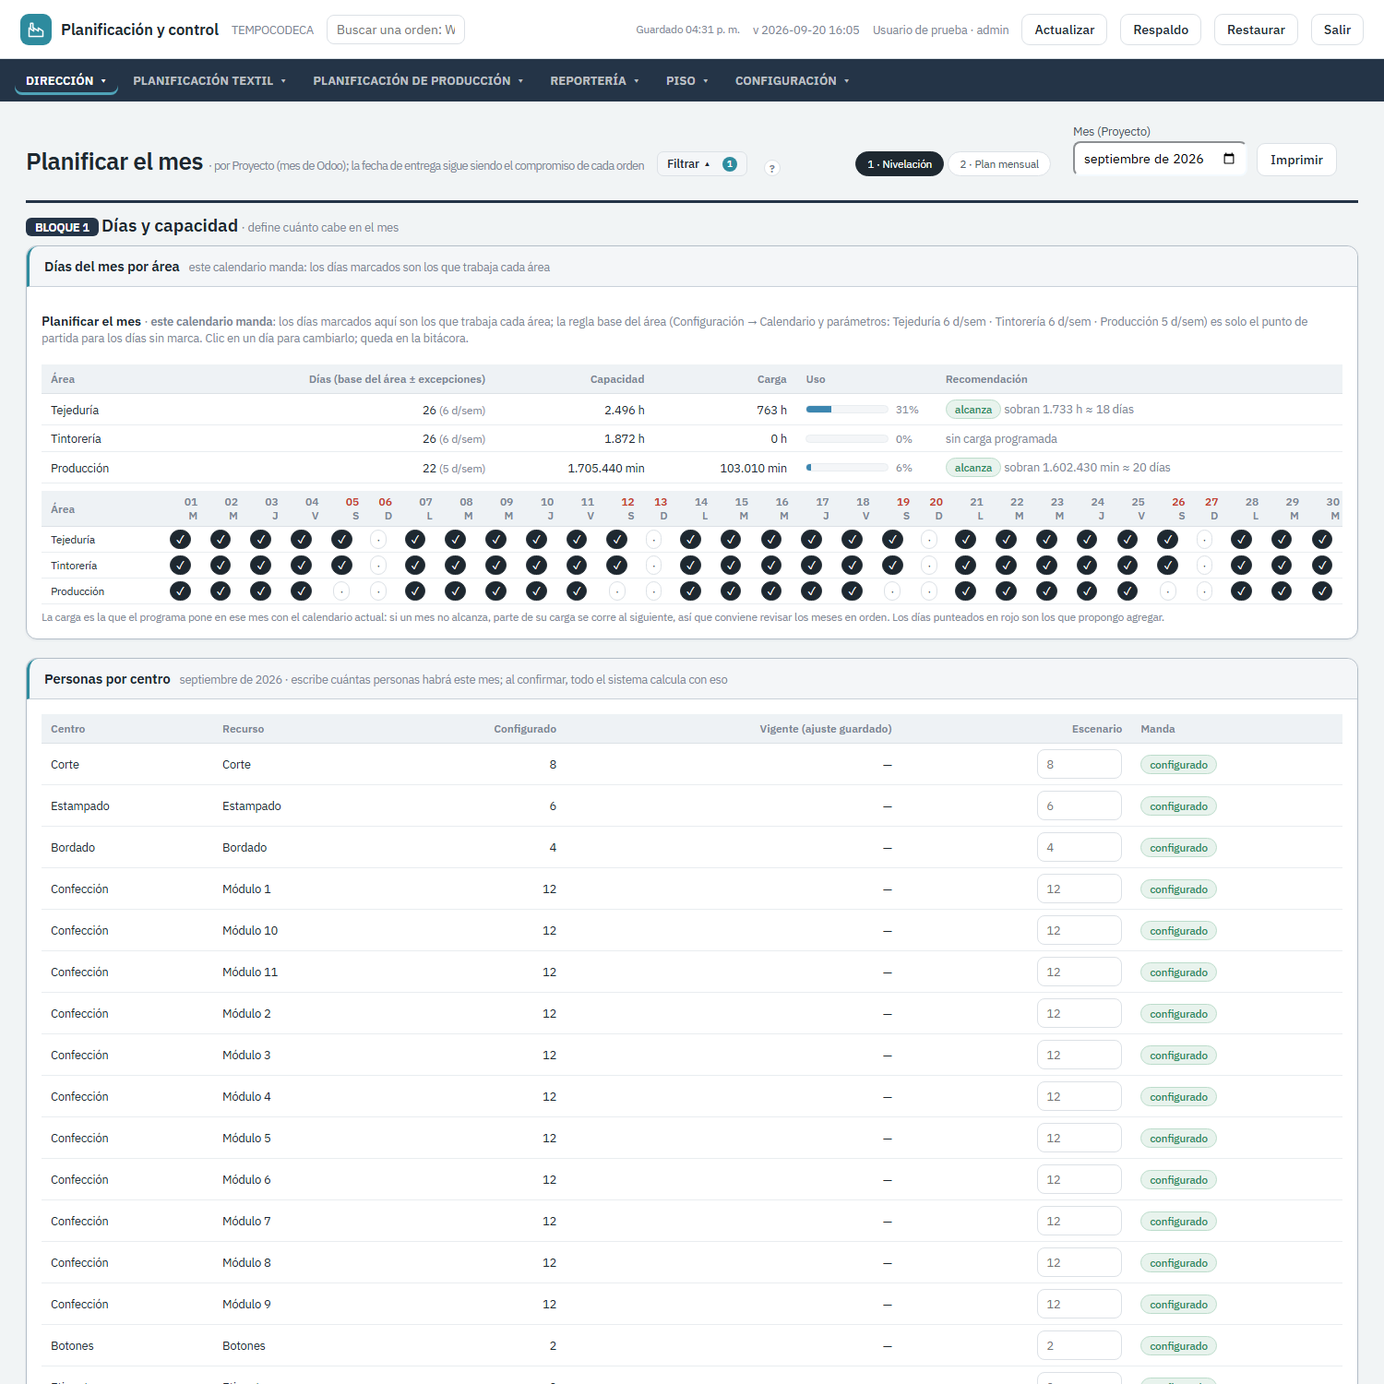
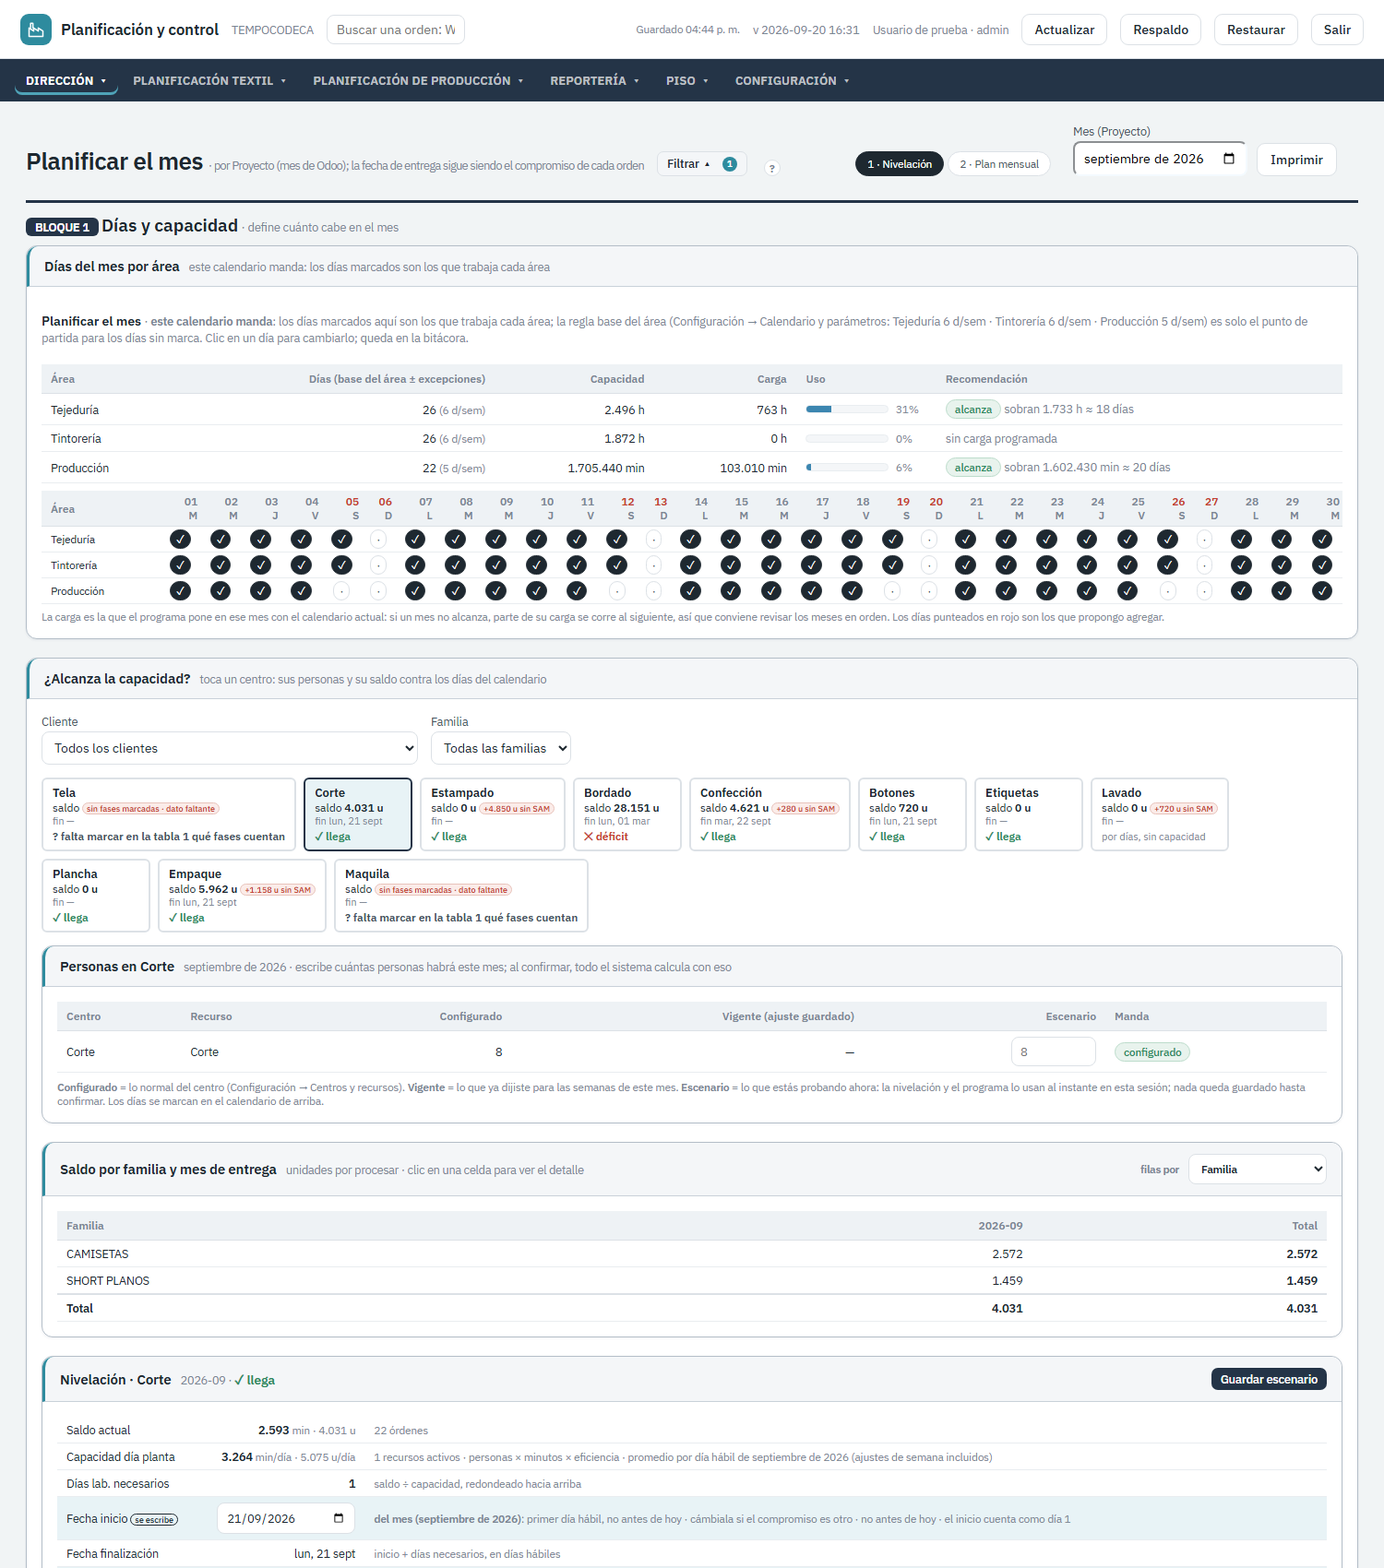
Planificar el mes · paso 1: primero los recuadros por área y, al tocar uno, solo sus personas (Corte → Corte; Confección → sus módulos), luego su tabla y su cuadrito. «? dato faltante» ahora dice qué falta (fases de la tabla 1, fecha compromiso, recursos…) y el horizonte natural es el mes elegido (i

diff --git a/index.html b/index.html
@@ -780,7 +780,7 @@ async function _save(){
 }
 
 /* ---------- versión cargada vs publicada: nunca mirar números de una copia vieja sin saberlo ---------- */
-const APP_BUILD='2026-09-20 16:31';
+const APP_BUILD='2026-09-20 16:48';
 function verBotonesAdmin(){const ok=puede('config');['btn-respaldo','btn-restaurar'].forEach(id=>{const b=document.getElementById(id);if(b)b.style.display=ok?'':'none'})}
 function verVersion(){const e=document.getElementById('version');if(e)e.textContent='v '+APP_BUILD}
 async function revisarVersion(){try{const r=await fetch(location.pathname+'?nocache='+Date.now(),{cache:'no-store'});if(!r.ok)return;const t=await r.text();const m=t.match(/APP_BUILD=\x27([^\x27]+)\x27/);if(!m)return;
@@ -2793,14 +2793,14 @@ function ajustesCapPanelHTML(ym){const ex=extrasDe(ym);if(!ex.length)return '';c
    Configuración no se toca y la pantalla dice cuál de las tres manda: configurado · vigente (ajuste guardado) · escenario (borrador). ---------- */
 function nivPersSet(ym,rid,v){if(!puede('programa')){alert('Tu perfil no ajusta capacidad.');return}if(!(SIM.on&&SIM.ym===ym))SIM={on:true,ym,rec:SIM.rec,cambios:{},motivo:''};
   semanasMes(ym).forEach(w=>simSet(w.ini,rid,'pers',v));PLAN=null;PLAN_ALL=null;CAPM=null;render()}
-function personasNivHTML(ym){const okP=puede('programa');const sem=semanasMes(ym);const on=SIM.on&&SIM.ym===ym;const aj=((S.params.ajustesCap||{})[ym]||{}).semanas||{};
-  const recs=S.recursos.filter(r=>r.activa&&r.id!=='maquila'&&CE(r.centro)&&CE(r.centro).area==='pro'&&!centroPorDias(r.centro)).sort((a,b)=>ordenPaso(a.centro)-ordenPaso(b.centro)||String(a.n).localeCompare(String(b.n)));
+function personasNivHTML(ym,areaId){const okP=puede('programa');const sem=semanasMes(ym);const on=SIM.on&&SIM.ym===ym;const aj=((S.params.ajustesCap||{})[ym]||{}).semanas||{};
+  const recs=S.recursos.filter(r=>r.activa&&r.id!=='maquila'&&CE(r.centro)&&CE(r.centro).area==='pro'&&!centroPorDias(r.centro)&&(!areaId||r.centro===areaId)).sort((a,b)=>ordenPaso(a.centro)-ordenPaso(b.centro)||String(a.n).localeCompare(String(b.n)));
   if(!recs.length)return '';
   const fila=r=>{const vig=sem.map(w=>{const x=aj[w.ini]&&aj[w.ini][r.id];return x&&x.pers!=null?+x.pers:null});const simV=sem.map(w=>{const x=SIM.cambios[w.ini]&&SIM.cambios[w.ini][r.id];return on&&x&&x.pers!=null?+x.pers:null});
     const vigTxt=vig.every(v=>v==null)?'—':(new Set(vig.map(v=>v==null?(r.pers||0):v)).size===1?num(vig.find(v=>v!=null)):vig.map((v,i)=>'sem. '+(i+1)+': '+num(v==null?(r.pers||0):v)).join(' · '));
     const escVal=simV.every(v=>v!=null)&&new Set(simV).size===1?simV[0]:'';const manda=escVal!==''?'escenario':(vig.some(v=>v!=null)?'vigente':'configurado');
     return `<tr><td>${esc(nCen(r.centro))}</td><td>${esc(r.n)}</td><td class="num" title="Configuración → Centros y recursos">${num(r.pers||0)}</td><td class="num" title="ajuste de la semana guardado (Plan / Nivelación)">${vigTxt}</td><td class="num">${okP?`<input type="number" min="0" step="1" style="width:80px" value="${escVal===''?'':num(escVal)}" placeholder="${num(vig.some(v=>v!=null)?(vig.find(v=>v!=null)):(r.pers||0))}" onchange="nivPersSet('${ym}','${r.id}',this.value)">`:'—'}</td><td><span class="tag ${manda==='escenario'?'t-aviso':manda==='vigente'?'t-medio':'t-ok'}">${manda}</span></td></tr>`};
-  return `<div class="panel"><h3>Personas por centro <span class="note">${esc(fmtMesEG(ym))} · escribe cuántas personas habrá este mes; al confirmar, todo el sistema calcula con eso</span></h3><div class="body">
+  return `<div class="panel"><h3>Personas en ${esc(areaId?nCen(areaId):'los centros')} <span class="note">${esc(fmtMesEG(ym))} · escribe cuántas personas habrá este mes; al confirmar, todo el sistema calcula con eso</span></h3><div class="body">
    <table><thead><tr><th>Centro</th><th>Recurso</th><th class="num">Configurado</th><th class="num">Vigente (ajuste guardado)</th><th class="num">Escenario</th><th>Manda</th></tr></thead><tbody>${recs.map(fila).join('')}</tbody></table>
    <p class="mut" style="font-size:var(--fs-xs);margin:8px 0 0"><b>Configurado</b> = lo normal del centro (Configuración → Centros y recursos). <b>Vigente</b> = lo que ya dijiste para las semanas de este mes. <b>Escenario</b> = lo que estás probando ahora: la nivelación y el programa lo usan al instante en esta sesión; nada queda guardado hasta confirmar. Los días se marcan en el calendario de arriba.</p>
    ${on?`<div class="row" style="margin-top:10px;align-items:flex-end"><div style="flex:1"><label>Motivo (obligatorio para confirmar)</label><input type="text" id="sim-motivo" value="${esc(SIM.motivo||'')}" oninput="SIM.motivo=this.value" placeholder="p. ej. entran 3 personas a corte desde el 6 de octubre"></div><div><button class="btn" onclick="guardarAjustesCap('${ym}')">Confirmar escenario</button> <button class="btn ghost" onclick="toggleSim('${ym}')">Descartar</button></div></div><div class="warn" style="margin-top:8px;font-size:var(--fs-s)">Escenario abierto: lo que ves abajo (capacidad, ¿alcanza?, programa) ya lo incluye. <b>Confirmar</b> lo graba como el ajuste de cada semana de ${esc(fmtMesEG(ym))} con tu motivo; <b>Descartar</b> vuelve a lo vigente.</div>`:''}
@@ -3441,8 +3441,7 @@ function vPlan(el){
   if(!(NIVUI.meses&&NIVUI.meses.length===1&&NIVUI.meses[0]===ym))NIVUI.meses=[ym];   /* la nivelación del paso 1 mira el mes del plan */
   const bloque1=planBloqueDiv('1','Días y capacidad','define cuánto cabe en el mes')
    +`<div class="panel"><h3>Días del mes por área <span class="note">este calendario manda: los días marcados son los que trabaja cada área</span></h3><div class="body"><div id="plan-cal">${(()=>{const g=MESPLAN;MESPLAN=ym;const html=planMesHTML();MESPLAN=g;return html})()}</div></div></div>
-   ${personasNivHTML(ym)}
-   <div class="panel"><h3>¿Alcanza la capacidad? <span class="note">saldo por procesar contra los días y las personas de arriba · por área</span></h3><div class="body">${nivelacionCuerpoHTML(false)}</div></div>
+   <div class="panel"><h3>¿Alcanza la capacidad? <span class="note">toca un centro: sus personas y su saldo contra los días del calendario</span></h3><div class="body">${nivelacionCuerpoHTML(false)}</div></div>
    <details class="panel" style="padding:0"><summary style="cursor:pointer;padding:12px 16px;font-weight:600">Más detalle <span class="note">capacidad por área y por módulo, simulador semana por semana, ajustes guardados, guía</span></summary><div class="body" style="padding:0 16px 12px">
    <div class="panel"><h3>Capacidad del mes por área <span class="note">personas, minutos, eficiencia y capacidad total resultante</span></h3><div class="body"><table><thead><tr><th>Área</th><th class="num">Días</th><th>Con qué se calcula</th><th class="num">Capacidad</th><th class="num">Programado</th><th style="width:140px">Uso</th><th></th></tr></thead><tbody>
     ${c.areas.map(a=>`<tr><td>${AREAS[a.a]}</td><td class="num">${fmtDiasMes(a.a,ym)}</td><td class="mut" style="font-size:var(--fs-xs)">${baseCapArea(a.a)}</td><td class="num">${num(a.cap)} ${a.u}</td><td class="num">${num(a.carga)} ${a.u}</td><td>${barra(a.carga,a.cap)}</td><td>${a.faltan?`<span class="tag t-alerta">faltan ${a.faltan} días</span> <a style="cursor:pointer;font-size:var(--fs-xs)" onclick="document.getElementById('plan-cal')&&document.getElementById('plan-cal').scrollIntoView({behavior:'smooth'})">planificar días ↑</a>`:'<span class="tag t-ok">alcanza</span>'}</td></tr>`).join('')}</tbody></table>
@@ -6540,8 +6539,14 @@ function nivUICapacidad(areaId){const a=nivUIArea(areaId);if(!a)return {cap:null
   const cap=recs.length?detalle.reduce((x,y)=>x+y.cap,0):null;const escOn=SIM.on&&meses.includes(SIM.ym);
   return {cap,unidad:'min/día',detalle,nota:recs.length?(recs.length+' recursos activos · personas × minutos × eficiencia · promedio por día hábil de '+(meses.length?meses.map(fmtMesEG).join(', '):'hoy')+(escOn?' · INCLUYE el escenario sin confirmar':'')+' (ajustes de semana incluidos)'):'sin recursos activos en el centro: dato faltante'}}
 /* --- lo que se escribe: inicio y compromiso (los del Paso 1), días adicionales y maquila (nuevos) --- */
-function nivUIEsc(areaId){const g=((S.params.nivelacion||{}).escenarios||{})[areaId]||{};const s=NIVUI.esc[areaId]||{};
-  return {inicio:s.inicio!==undefined?s.inicio:(nivFecha(areaId,'inicio')||''),compromiso:s.compromiso!==undefined?s.compromiso:(nivFecha(areaId,'compromiso')||''),
+/* fechas del horizonte cuando el área no tiene fechas propias: el mes (o meses) elegido, con los días hábiles del área */
+function nivUIFechasDelMes(areaId){const meses=nivUIMeses();if(!meses.length)return null;const a=nivUIArea(areaId);const recs=a&&a.tipo==='centro'?S.recursos.filter(r=>r.activa&&r.centro===a.id&&r.id!=='maquila'):[];const r0=recs[0]||null;
+  const lab=d=>r0?labR(d,r0):!!labR(d,{centro:'corte'});const dias=[];meses.slice().sort().forEach(ym=>{const [y,m]=ym.split('-').map(Number);if(!(y>0&&m>0))return;const nd=new Date(y,m,0).getDate();for(let k=1;k<=nd;k++)dias.push(ym+'-'+String(k).padStart(2,'0'))});
+  const habiles=dias.filter(lab);if(!habiles.length)return null;const h=hoy();const ini=habiles.find(d=>d>=h)||null;const fin=habiles[habiles.length-1];if(!ini||fin<ini)return null;return {inicio:ini,compromiso:fin,txt:'del mes ('+meses.map(fmtMesEG).join(', ')+')'}}
+function nivUIEsc(areaId){const g=((S.params.nivelacion||{}).escenarios||{})[areaId]||{};const s=NIVUI.esc[areaId]||{};const fm=nivUIFechasDelMes(areaId);
+  const iniG=nivFecha(areaId,'inicio')||'',comG=nivFecha(areaId,'compromiso')||'';
+  return {inicio:s.inicio!==undefined?s.inicio:(iniG||(fm?fm.inicio:'')),compromiso:s.compromiso!==undefined?s.compromiso:(comG||(fm?fm.compromiso:'')),
+    fechasDelMes:!!(fm&&s.inicio===undefined&&s.compromiso===undefined&&!iniG&&!comG),fechasTxt:fm?fm.txt:'',
     diasAdic:s.diasAdic!==undefined?s.diasAdic:(g.diasAdic!=null?g.diasAdic:0),maquilaU:s.maquilaU!==undefined?s.maquilaU:(g.maquilaU!=null?g.maquilaU:''),
     sinGuardar:Object.keys(s).length>0,guardado:g.ts?g:null}}
 function nivUISet(areaId,k,v){if(!puede('programa')){alert('Solo planificación puede escribir en «Nivelación».');return}
@@ -6589,7 +6594,12 @@ function nivUIGuardar(areaId){if(!puede('programa')){alert('Solo planificación 
   delete NIVUI.esc[areaId];NIVC=null;save();render()}
 /* ---------- presentación ---------- */
 const NIVUI_ESTADO={ok:{ico:'✓',txt:'llega',color:'var(--ok)'},riesgo:{ico:'⚠',txt:'riesgo',color:'var(--aviso)'},deficit:{ico:'✕',txt:'déficit',color:'var(--alerta)'},faltante:{ico:'?',txt:'dato faltante',color:'var(--ink2)'}};
-function nivUIEstadoHTML(est,chico){const e=NIVUI_ESTADO[est]||NIVUI_ESTADO.faltante;return `<span style="color:${e.color};font-weight:600;font-size:${chico?'12px':'14px'}">${e.ico} ${e.txt}</span>`}
+function nivUIEstadoHTML(est,chico,r){const e=NIVUI_ESTADO[est]||NIVUI_ESTADO.faltante;const txt=(est==='faltante'&&r)?nivUIQueFalta(r):e.txt;return `<span style="color:${e.color};font-weight:600;font-size:${chico?'12px':'14px'}" title="${esc(est==='faltante'&&r?'falta: '+nivUIQueFalta(r):e.txt)}">${e.ico} ${esc(txt)}</span>`}
+/* qué dato falta para decir si llega (en palabras de planta) */
+function nivUIQueFalta(r){if(!r)return 'dato faltante';const f=[];if(r.sinFasesTela||(r.area.porFase&&!fasesDeProcNivel(r.area.id).length))f.push('marcar en la tabla 1 qué fases cuentan');
+  if(r.saldo==null||(r.enMin?r.saldo.min==null:r.saldo.unid==null))f.push('saldo');if(r.cap&&r.cap.cap==null&&!r.area.porFase)f.push('recursos con personas, minutos y eficiencia en este centro');
+  if(!r.esc.inicio)f.push('fecha de inicio');if(!r.esc.compromiso)f.push('fecha compromiso');if(r.enMin&&r.sam==null&&r.saldo&&r.saldo.min==null)f.push('SAM');
+  return f.length?'falta '+f.join(' · '):'dato faltante'}
 function nivUIFechaTxt(f){return f?fmtDia(f):'<span class="tag t-alerta" style="font-size:10px;padding:0 4px">dato faltante</span>'}
 function nivUIValor(min,r,dec){if(min==null)return faltaTxt();if(!r.enMin)return '<b>'+num(min,0)+'</b> <span class="mut" style="font-size:var(--fs-xs)">u</span>';return minUni(min,r.sam,dec)}
 function nivUIMesesHTML(){const disp=nivUIMesesDisp();const sel=nivUIMeses();
@@ -6604,7 +6614,7 @@ function nivUIRecuadrosHTML(){const meses=nivUIMeses();
       <div style="font-weight:600;font-size:13px">${esc(a.n)}</div>
       <div style="font-size:12px">saldo <b>${saldo}</b></div>
       <div style="font-size:11px" class="mut">fin ${esc(fin)}</div>
-      <div>${a.porDias?'<span class="mut" style="font-size:11px" title="no consume capacidad: no se nivela por capacidad">por días, sin capacidad</span>':nivUIEstadoHTML(r?r.estado:'faltante',true)}</div></div>`}).join('')}</div>`}
+      <div>${a.porDias?'<span class="mut" style="font-size:11px" title="no consume capacidad: no se nivela por capacidad">por días, sin capacidad</span>':nivUIEstadoHTML(r?r.estado:'faltante',true,r)}</div></div>`}).join('')}</div>`}
 /* tabla FAMILIA × mes (unidades del saldo): para nivelar se mira el tipo de producto, no las órdenes una por una.
    Las filas se pueden agrupar por familia (por defecto), tipo de producto o cliente; el cálculo no cambia.
    Clic en una celda → debajo, ESA fila y ese mes: primero por tipo de producto con sus unidades, y ahí sí las
@@ -6648,7 +6658,7 @@ function nivUICuadritoHTML(r){if(!r)return '';const c=r.calc,e=r.esc,ok=puede('p
     ${ro('Saldo actual',nivUIValor(r.saldo?(r.enMin?r.saldo.min:r.saldo.unid):null,r),(r.saldo?num(r.saldo.ordenes.length,0)+' órdenes':'')+(r.saldo&&r.saldo.sinSAM.length?' · <span style="color:var(--alerta)">'+r.saldo.sinSAM.length+' sin SAM ('+num(r.saldo.unidSinSAM,0)+' u) no suman</span>':''))}
     ${ro('Capacidad día planta',capTxt,esc(r.cap.nota))}
     ${ro('Días lab. necesarios',c.diasNec==null?faltaTxt():'<b>'+num(c.diasNec,0)+'</b>','saldo ÷ capacidad, redondeado hacia arriba')}
-    ${wr('Fecha inicio',inp('inicio','date',e.inicio,'min="'+hoy()+'"'),'no antes de hoy · el inicio cuenta como día 1')}
+    ${wr('Fecha inicio',inp('inicio','date',e.inicio,'min="'+hoy()+'"'),(e.fechasDelMes?'<b>'+esc(e.fechasTxt)+'</b>: primer día hábil, no antes de hoy · cámbiala si el compromiso es otro · ':'')+'no antes de hoy · el inicio cuenta como día 1')}
     ${ro('Fecha finalización',nivUIFechaTxt(c.fin),c.fin?'inicio + días necesarios, en días hábiles':'')}
     ${wr('Fecha compromiso',inp('compromiso','date',e.compromiso),'último día disponible, incluido')}
     ${ro('Días disponibles',c.diasDisp==null?faltaTxt():'<b>'+num(c.diasDisp,0)+'</b>',c.txtDias?esc(c.txtDias):'días hábiles entre inicio y compromiso, con festivos cargados')}
@@ -6677,9 +6687,11 @@ function nivUICalculoHTML(r){const c=r.calc;const nh=c.noHabiles||[];
    <div><b>Producción planta:</b> ${c.capDia!=null&&r.diasTot!=null?num(c.capDia,0)+' × '+num(r.diasTot,1)+' = '+num(r.plantaMin,0)+(r.enMin?' min':' u'):'—'} · <b>Maquila:</b> ${r.maqMin!=null?num(r.maqU,0)+' u'+(r.enMin&&r.sam?' × '+num(r.sam,3)+' = '+num(r.maqMin,0)+' min':''):'—'} · <b>Déficit:</b> ${r.deficitMin!=null?num(r.saldo?(r.enMin?r.saldo.min:r.saldo.unid):0,0)+' − '+num(r.totalMin,0)+' = '+num(r.deficitMin,0):'—'}</div>
   </div>`}
 /* el cuerpo de la nivelación (recuadros por área, tabla, cuadrito); lo usan la página Nivelación y el paso 1 de Planificar el mes */
-function nivelacionCuerpoHTML(conMeses){const r=nivUICalcular(NIVUI.area)||nivUICalcular((nivUIAreas()[1]||{}).id);
+function nivelacionCuerpoHTML(conMeses){const r=nivUICalcular(NIVUI.area)||nivUICalcular((nivUIAreas()[1]||{}).id);const areaSel=r?r.area:null;
+  const personas=(areaSel&&areaSel.tipo==='centro'&&!areaSel.porDias)?nivUIMeses().slice().sort().map(ym=>personasNivHTML(ym,areaSel.id)).join(''):'';   /* solo el centro elegido en los recuadros */
   return `<div class="row" style="align-items:flex-end;gap:14px">${conMeses?nivUIMesesHTML():''}${nivUIFiltrosHTML()}</div>
    ${nivUIRecuadrosHTML()}
+   ${personas}
    ${r?nivUITablaHTML(r)+(nivUIConectada(r.area)?nivUICuadritoHTML(r):`<div class="panel"><div class="body warn" style="font-size:var(--fs-s)"><b>${esc(r.area.n)}: por días, sin capacidad.</b> Muestra saldo y órdenes, sin cuadrito ni fecha calculada. ${esc(r.cap.nota)}</div></div>`):'<div class="panel"><div class="empty">Sin áreas configuradas.</div></div>'}`}
 function vNivelacion(el){const ym=(nivUIMeses()[0]||hoy().slice(0,7));
   el.innerHTML=`<div class="pagehead"><h2>Nivelación</h2><span class="spacer"></span>

diff --git a/test/driver.js b/test/driver.js
@@ -6789,8 +6789,8 @@ async function __run(){try{LISTO=true;}catch(e){}try{__R.prevFuzz=localStorage._
      __check('EX: aplicarOT reporta las confirmadas que la OT no tocó (registro de cargas y Reporte OT)',/confNoTocadas/.test(String(aplicarOT))&&/confNoTocadas/.test(String(mReporteOT))&&/confNoTocadas/.test(String(resumenCargaTxt)));}
     delete S.params.palabrasExcedente;delete S.params.centroExcedente;}
    /* PN · Planificar el mes en dos pasos (usuaria, 20-sep): 1 Nivelación (días, personas por centro, ¿alcanza?) → 2 Plan mensual; el escenario confirmado manda en todo el sistema */
-   {PERFIL=adminP0();const ym=hoy().slice(0,7);PM.mes=ym;PM.paso=1;SIM={on:false,ym:null,rec:null,cambios:{},motivo:''};const bakAj=JSON.stringify(S.params.ajustesCap||null);page='plan';render();const pg=()=>document.getElementById('p-plan');let h=pg().innerHTML;
-    __check('PN: la pantalla se llama «Planificar el mes», tiene los dos pasos como chips y el paso 1 trae, en orden, el calendario de días, Personas por centro y ¿Alcanza la capacidad? (la nivelación); el paso 2 queda en el DOM pero oculto',/<h2>Planificar el mes/.test(h)&&/1 · Nivelación/.test(h)&&/2 · Plan mensual/.test(h)&&h.indexOf('id="plan-cal"')<h.indexOf('Personas por centro')&&h.indexOf('Personas por centro')<h.indexOf('¿Alcanza la capacidad?')&&/Saldo por/.test(h)&&pg().querySelector('#plan-paso1').style.display!=='none'&&pg().querySelector('#plan-paso2').style.display==='none'&&/Resumen del mes/.test(pg().querySelector('#plan-paso2').innerHTML)&&document.querySelector('nav a[data-p="plan"]').textContent.trim()==='Planificar el mes');
+   {PERFIL=adminP0();const ym=hoy().slice(0,7);PM.mes=ym;PM.paso=1;NIVUI.area='corte';NIVUI.esc={};SIM={on:false,ym:null,rec:null,cambios:{},motivo:''};const bakAj=JSON.stringify(S.params.ajustesCap||null);page='plan';render();const pg=()=>document.getElementById('p-plan');let h=pg().innerHTML;
+    __check('PN: la pantalla se llama «Planificar el mes», tiene los dos pasos como chips y el paso 1 trae, en orden, el calendario de días, ¿Alcanza la capacidad? con los recuadros por área y, debajo, las personas SOLO del centro elegido (Corte); el paso 2 queda en el DOM pero oculto',/<h2>Planificar el mes/.test(h)&&/1 · Nivelación/.test(h)&&/2 · Plan mensual/.test(h)&&h.indexOf('id="plan-cal"')<h.indexOf('¿Alcanza la capacidad?')&&h.indexOf('¿Alcanza la capacidad?')<h.indexOf('Personas en Corte')&&!/Personas en Confección/.test(h)&&h.indexOf("NIVUI.area='corte'")<h.indexOf('Personas en Corte')&&/Saldo por/.test(h)&&pg().querySelector('#plan-paso1').style.display!=='none'&&pg().querySelector('#plan-paso2').style.display==='none'&&/Resumen del mes/.test(pg().querySelector('#plan-paso2').innerHTML)&&document.querySelector('nav a[data-p="plan"]').textContent.trim()==='Planificar el mes');
     __check('PN: la nivelación del paso 1 mira el mes del plan',nivUIMeses().length===1&&nivUIMeses()[0]===ym||nivUIMesesDisp().indexOf(ym)<0,JSON.stringify({niv:nivUIMeses(),ym,disp:nivUIMesesDisp().slice(0,4)}));
     PM.paso=2;render();__check('PN: el paso 2 muestra el plan y esconde el paso 1',pg().querySelector('#plan-paso2').style.display!=='none'&&pg().querySelector('#plan-paso1').style.display==='none');PM.paso=1;render();
     /* personas: escenario → capacidad al instante; confirmar → ajuste de la semana → todo el sistema */

diff --git a/PLANIFICAR_EL_MES_DOS_PASOS.md b/PLANIFICAR_EL_MES_DOS_PASOS.md
@@ -30,6 +30,15 @@ días, personas y capacidad vienen del paso 1.
 **Planificación de producción → Nivelación** sigue existiendo (página `nivelacion`, `vNivelacion`): es la misma nivelación por
 meses, con el botón «Planificar el mes →» que abre el paso 1. No hay dos cálculos: `nivelacionCuerpoHTML` es una sola función.
 
+## Ajustes tras verla (20-sep, tarde)
+- Primero los **recuadros por área** (Tela, Corte, Estampado…); al tocar uno, debajo aparecen **solo sus personas** ()
+  y luego su tabla y su cuadrito — «clic en Corte, solo Corte; clic en Confección, solo Confección».
+- **«? dato faltante» ahora dice qué falta** (): «falta marcar en la tabla 1 qué fases cuentan», «falta fecha compromiso»,
+  «falta recursos con personas…». Y el horizonte natural es **el mes elegido**: sin fechas propias, inicio = primer día hábil del mes
+  (no antes de hoy) y compromiso = último día hábil (, marcado «del mes» en el cuadrito; se cambia y se guarda como
+  siempre). Por eso Corte, Estampado… ya dicen «✓ llega» / «✕ déficit» en vez de «dato faltante»; Tela y Maquila siguen pidiendo que se
+  marquen sus fases en la tabla 1.
+
 ## Las tres capas de la capacidad (en orden de mando)
 1. **Escenario** (borrador en la sesión, `SIM`) — mientras se está probando.
 2. **Vigente** (ajuste de la semana guardado, `ajustesCap`) — lo que se confirmó para esas semanas.
